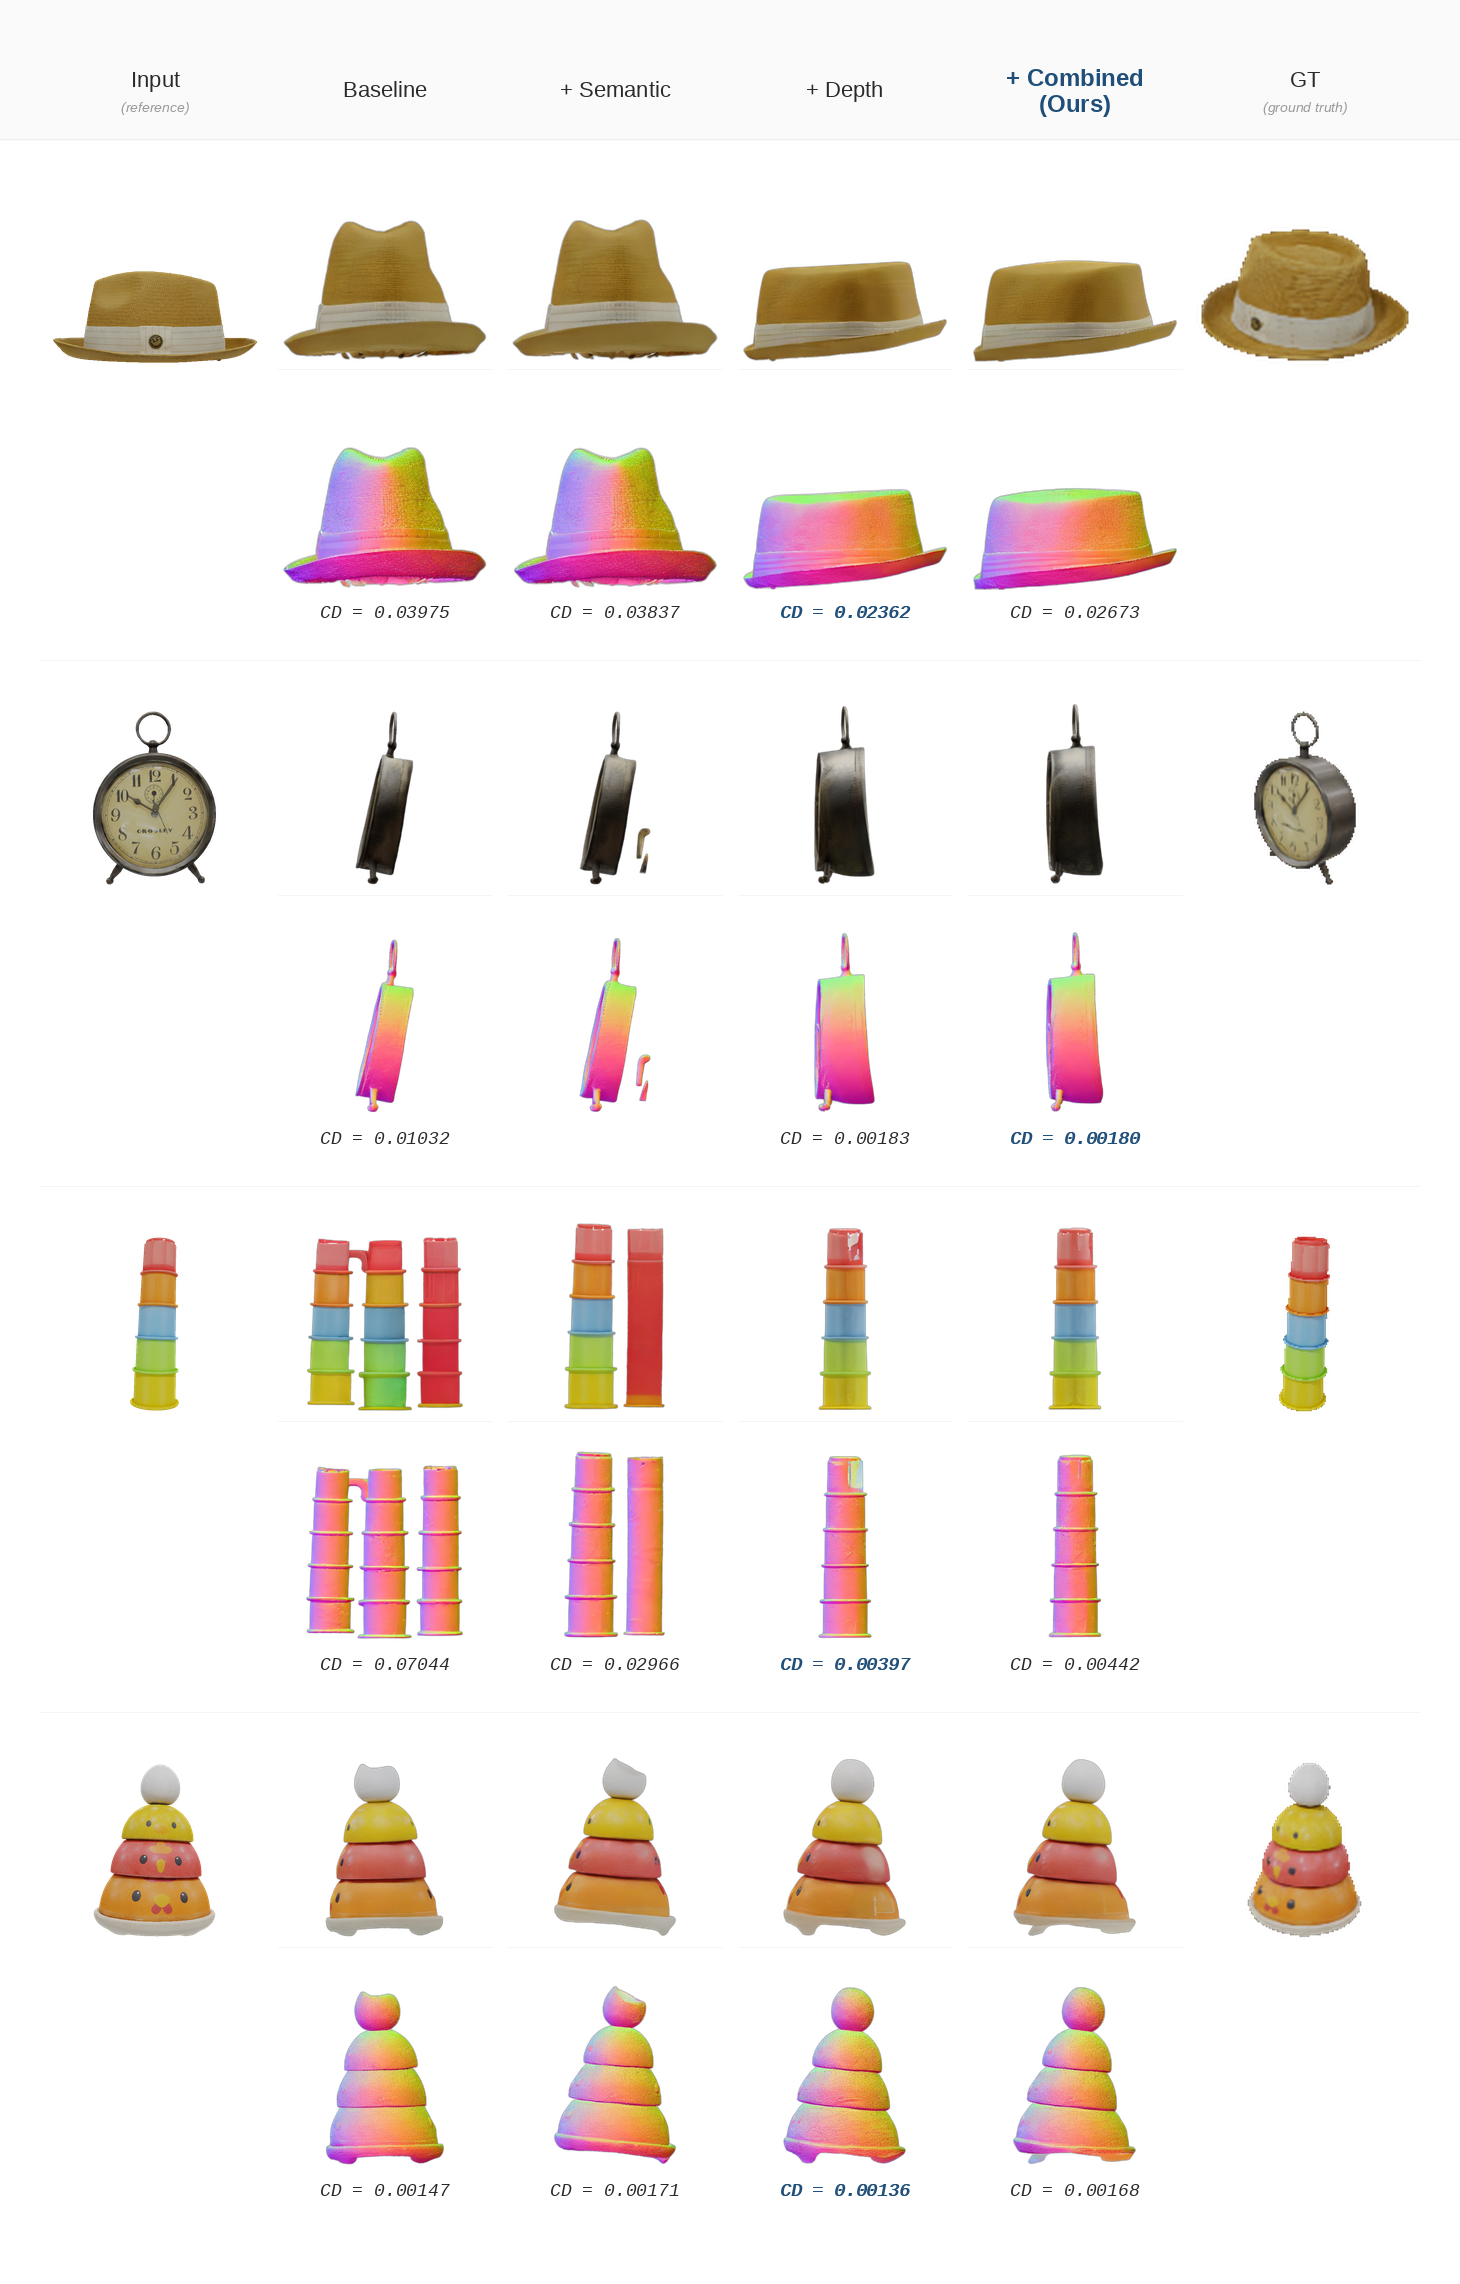
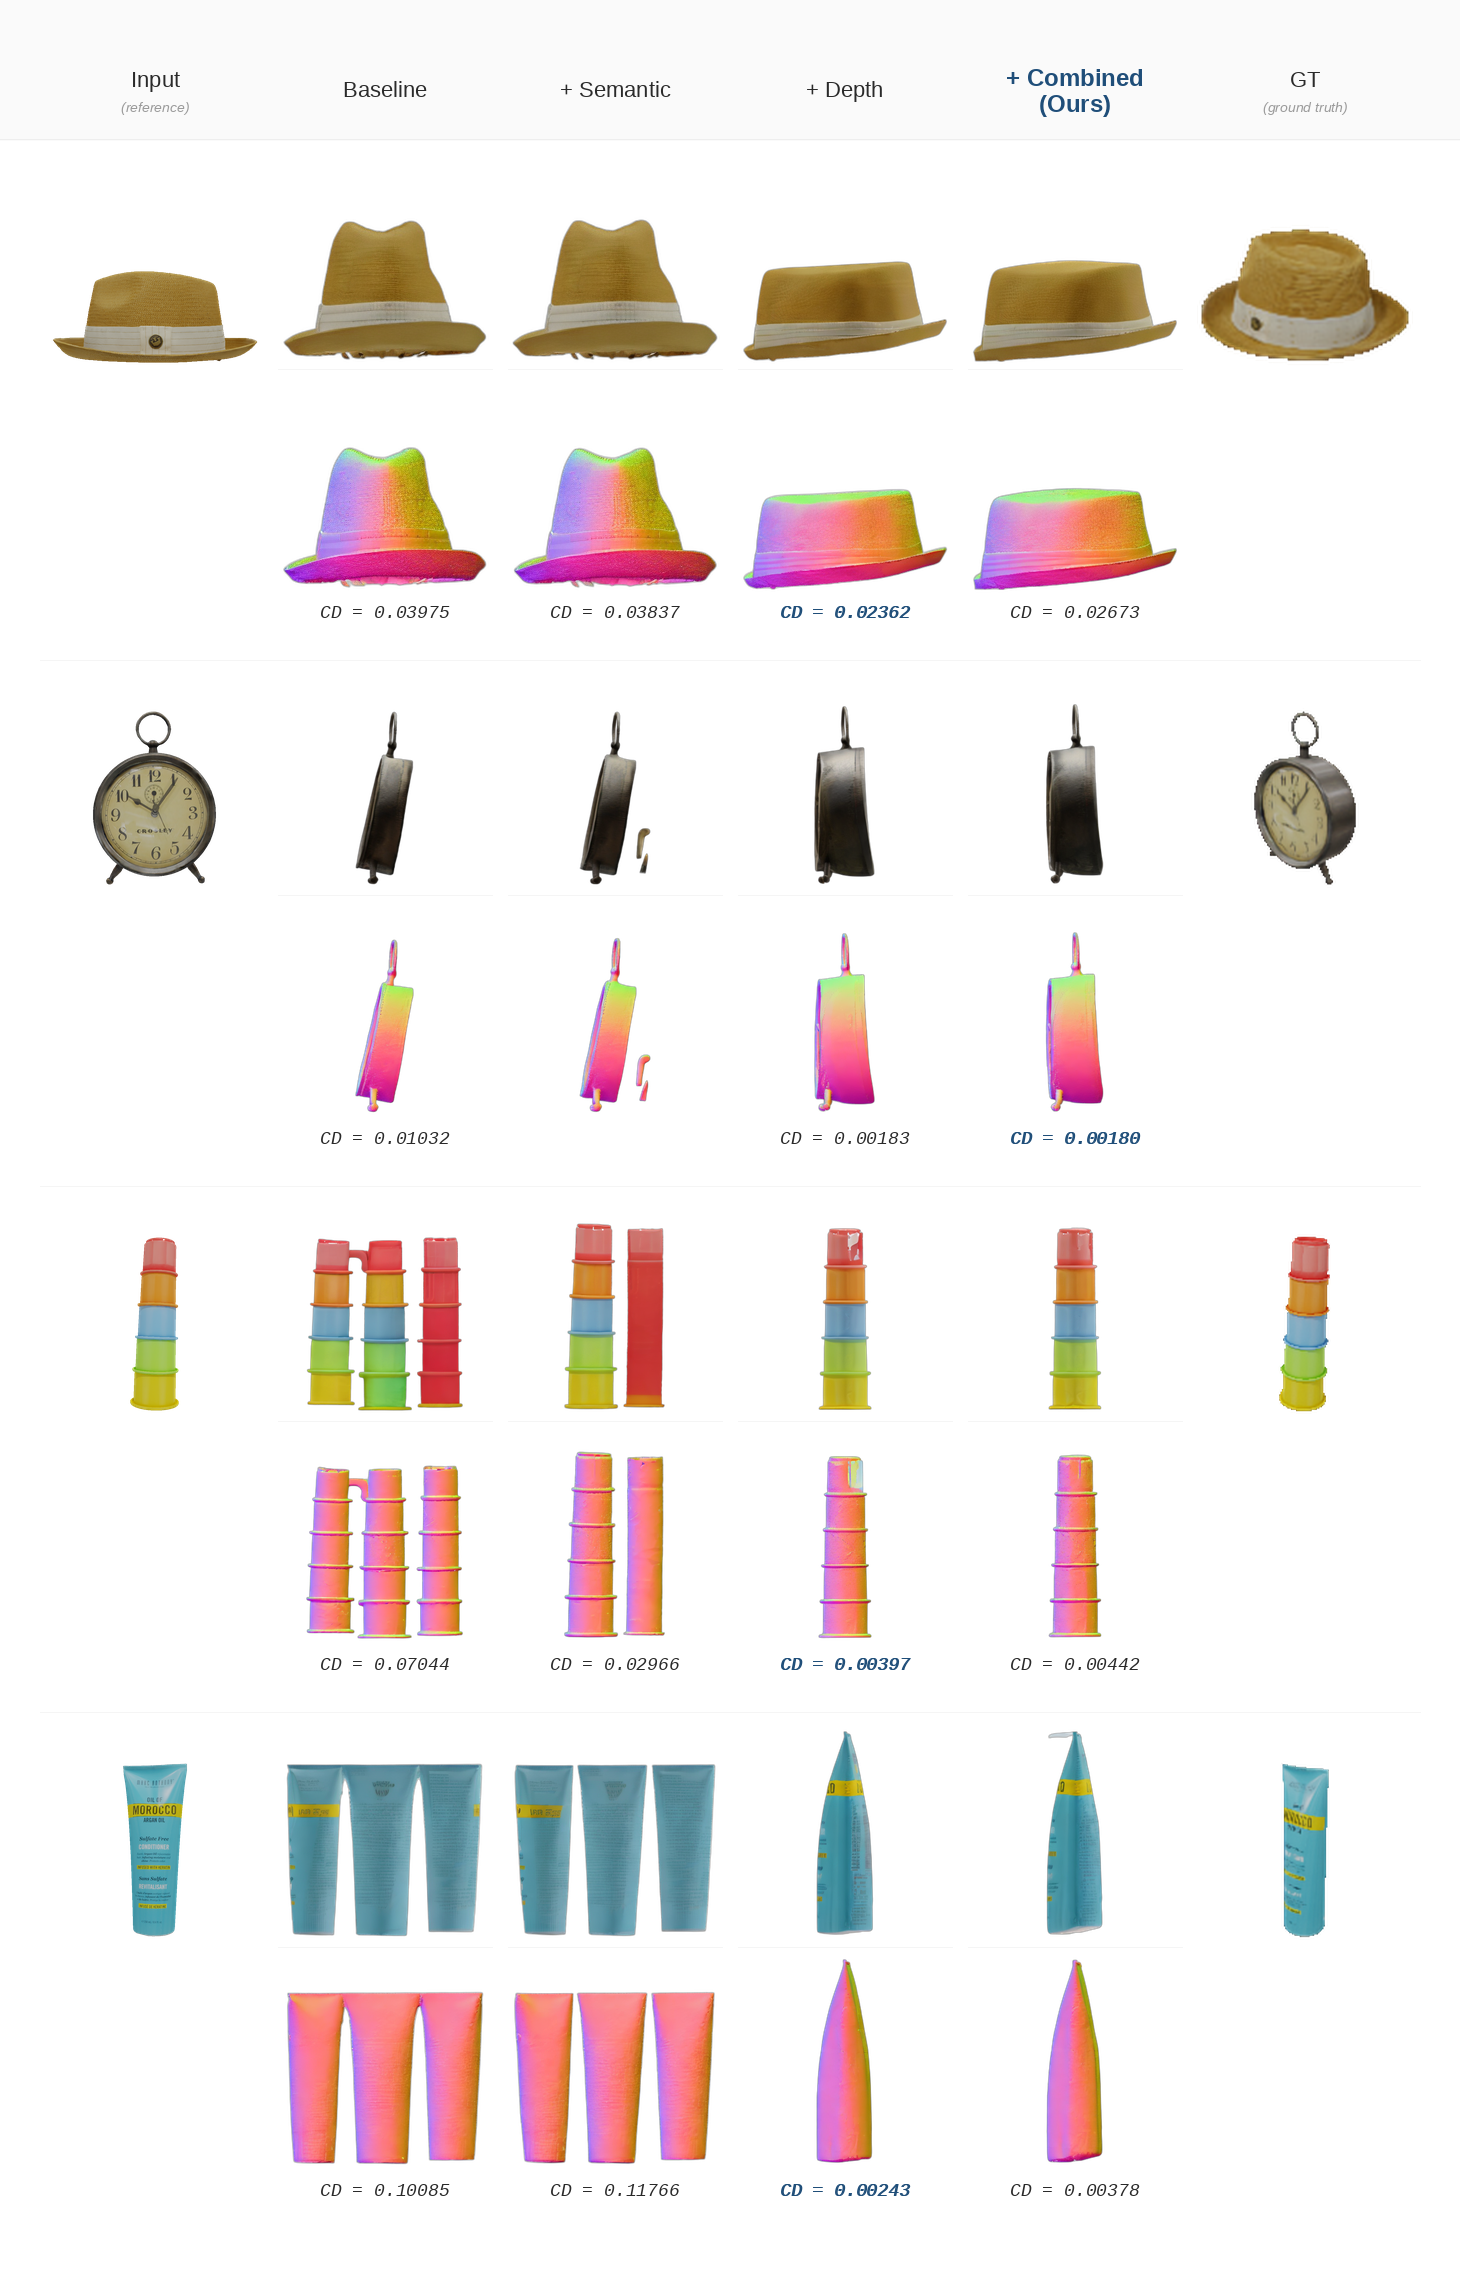
Fix Spearman rho value, improve teaser rescue narrative
- Spearman rho: -0.63 (orphaned experiments.tex draft) -> -0.498, p=0.005, n=30
  (canonical value in main.tex/supplementary.tex; recomputed from era3d_v5
  lr0 vs lr1e-2 -> rho(baseline CD, dpct)=-0.498 exactly)
- Teaser: replace chicken (+14%, not a rescue) with oil bottle (-96% CD);
  regenerated era3d_final_4obj grid via build script
- Gallery: accurate oil/sofa per-condition CDs; rescues first; default oil
- Verified all Table-1 metrics on page match paper

diff --git a/index.html b/index.html
@@ -55,9 +55,10 @@
             <figcaption>
                 <strong>The rescue effect.</strong> Where the generative prior alone
                 <span class="bad">collapses the hat</span>, <span class="bad">flattens the clock</span>, or
-                <span class="bad">multiplies the stacked cups</span>, injecting <span class="good">perception</span>
-                (semantic&nbsp;+&nbsp;geometric) steers generation back toward the true object &mdash; approaching ground truth
-                with no retraining of the base model.
+                <span class="bad">splinters the stacked cups and oil bottle</span> into phantom copies, injecting
+                <span class="good">perception</span> (semantic&nbsp;+&nbsp;geometric) steers generation back toward the
+                true object &mdash; the oil bottle alone drops <span class="good">&minus;96% Chamfer distance</span>,
+                approaching ground truth with no retraining of the base model.
             </figcaption>
         </figure>
     </div>
@@ -262,9 +263,9 @@
             <div class="card">
                 <div class="card-icon">&#9889;</div>
                 <h3>The Rescue Effect</h3>
-                <p>Perception guidance helps most where the baseline fails most
-                   (Spearman&nbsp;&rho;&nbsp;=&nbsp;&minus;0.63). For the hardest objects
-                   (CD&nbsp;&gt;&nbsp;0.05), all improved &mdash; by &minus;67% on average.</p>
+                <p>On Era3D, perception guidance helps most where the baseline fails most
+                   (Spearman&nbsp;&rho;&nbsp;=&nbsp;&minus;0.498, <em>p</em>&nbsp;=&nbsp;0.005, n&nbsp;=&nbsp;30). For the
+                   hardest objects (CD&nbsp;&gt;&nbsp;0.05), all three improved &mdash; by &minus;67% on average.</p>
             </div>
             <div class="card">
                 <div class="card-icon">&#128268;</div>

diff --git a/static/js/main.js b/static/js/main.js
@@ -34,17 +34,18 @@
     { key: "comb", label: "+ Combined",  ours: true  }
   ];
 
-  // cd values in raw Chamfer units; null = not reported for this cell
+  // cd values in raw Chamfer units (Era3D; bl=lr0, cap=caption_v2, dep=depth-v5, comb=combined_v2);
+  // null = not reported for this cell. Rescue cases first; chicken is an honest already-easy case.
   var OBJECTS = [
+    { id: "oil",           label: "Oil Bottle",   cd: { bl: 0.10085, cap: 0.11766, dep: 0.00243, comb: 0.00378 } },
+    { id: "stucking_cups", label: "Stacked Cups", cd: { bl: 0.07044, cap: 0.02966, dep: 0.00397, comb: 0.00442 } },
     { id: "alarm",         label: "Alarm Clock",  cd: { bl: 0.01032, cap: null,    dep: 0.00183, comb: 0.00180 } },
     { id: "hat",           label: "Hat",          cd: { bl: 0.03975, cap: 0.03837, dep: 0.02362, comb: 0.02673 } },
-    { id: "stucking_cups", label: "Stacked Cups", cd: { bl: 0.07044, cap: 0.02966, dep: 0.00397, comb: 0.00442 } },
-    { id: "chicken",       label: "Stacking Toy", cd: { bl: 0.00147, cap: 0.00171, dep: 0.00136, comb: 0.00168 } },
-    { id: "sofa",          label: "Sofa",         cd: { bl: null, cap: null, dep: null, comb: null } },
-    { id: "oil",           label: "Oil Can",      cd: { bl: null, cap: null, dep: null, comb: null } }
+    { id: "sofa",          label: "Sofa",         cd: { bl: 0.00998, cap: 0.01236, dep: 0.00746, comb: 0.00761 } },
+    { id: "chicken",       label: "Stacking Toy", cd: { bl: 0.00147, cap: 0.00171, dep: 0.00136, comb: 0.00168 } }
   ];
 
-  var state = { obj: OBJECTS[2], cond: "comb", mode: "rgb" }; // start on the dramatic cups + combined
+  var state = { obj: OBJECTS[0], cond: "comb", mode: "norm" }; // start on the oil-bottle rescue, normals
 
   var elObjects = document.getElementById("gallery-objects");
   var elTabs    = document.getElementById("condition-tabs");